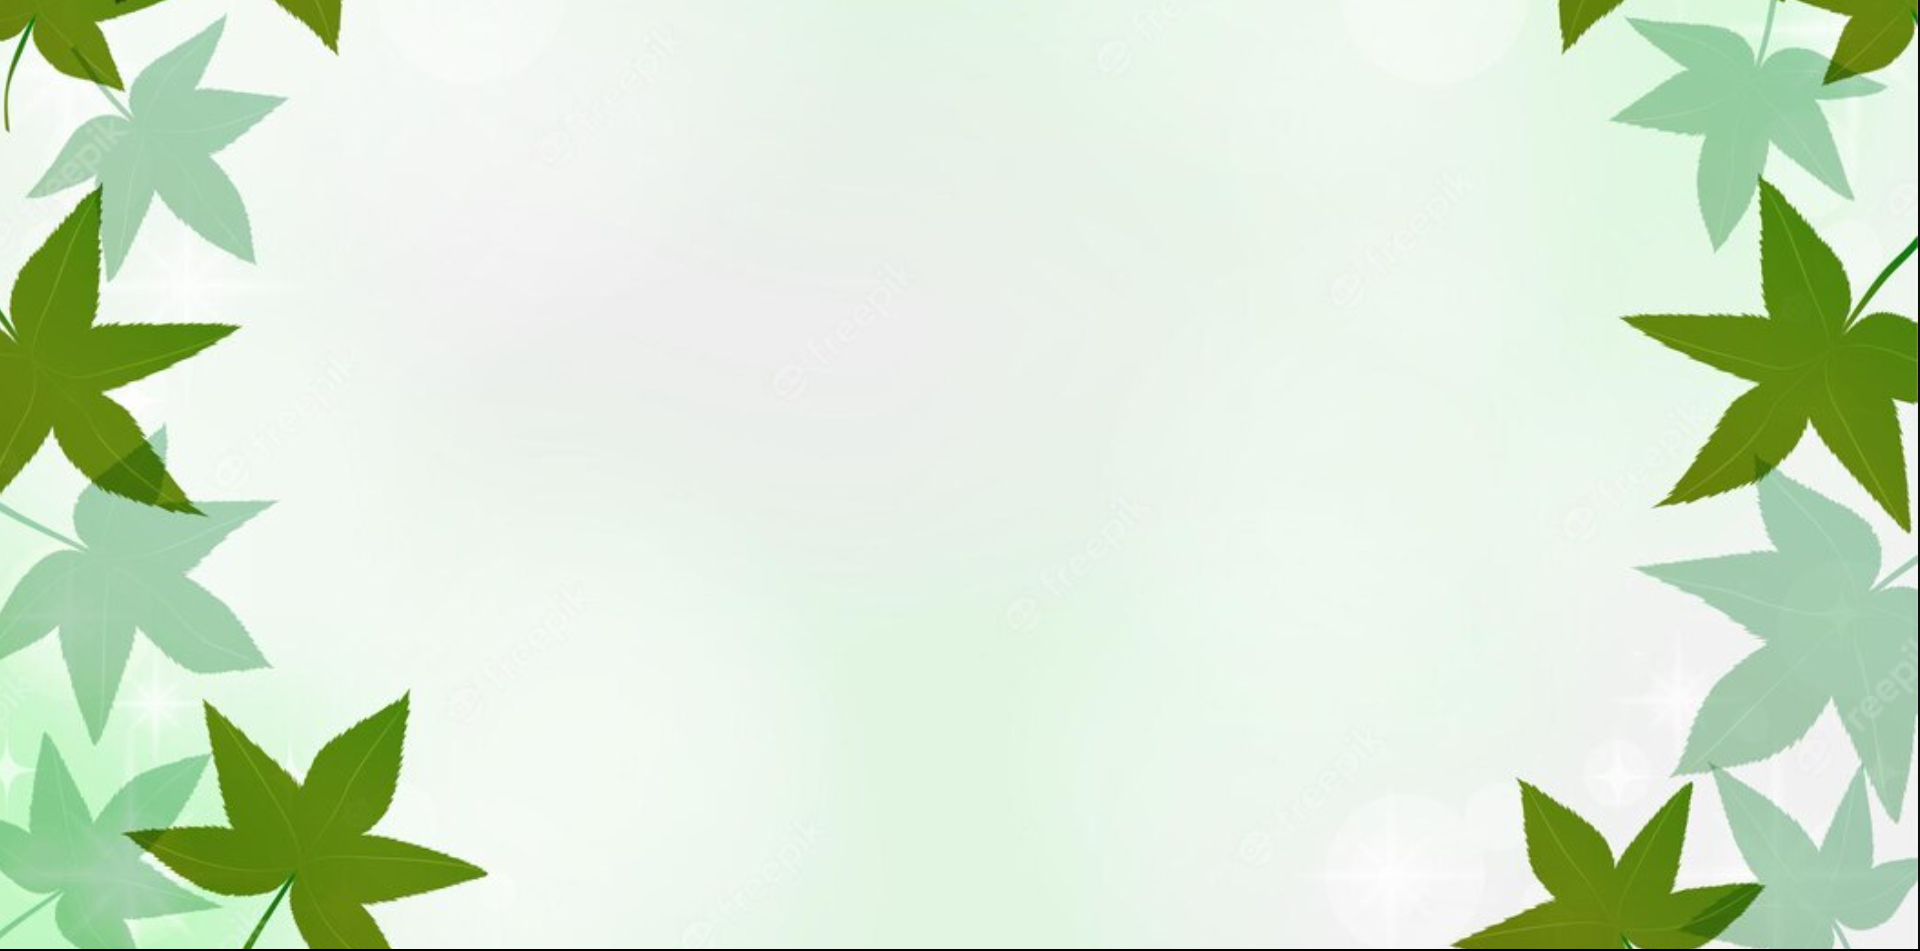
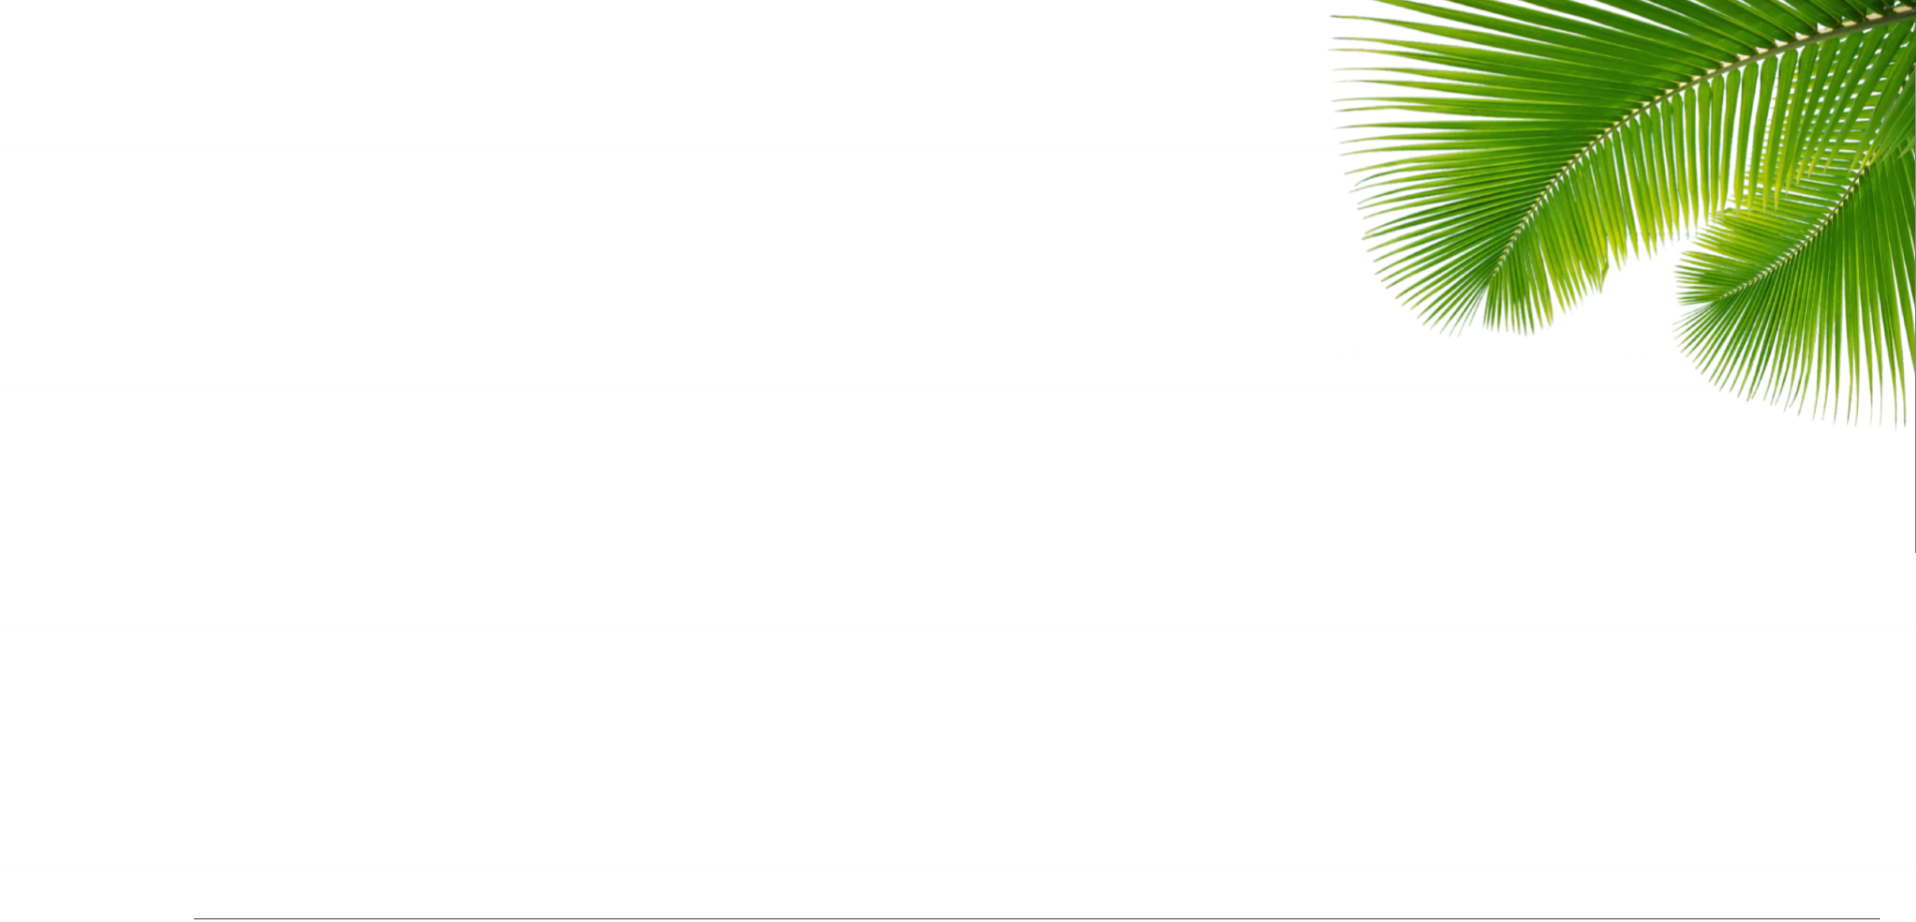
Updated background and added "go back" button to update page.

diff --git a/src/app/update/update.component.scss b/src/app/update/update.component.scss
@@ -32,7 +32,7 @@
     height: 60px;
     display: flex;
     align-items: center;
-    background-color: #5C6647;
+    background-color: #98b83e;
     color: white;
     font-weight: 600;
     }
@@ -41,24 +41,9 @@
     margin: 0 16px;
     }
     
-    .toolbar #twitter-logo {
-    height: 40px;
-    margin: 0 8px;
-    }
-    
-    .toolbar #youtube-logo {
-    height: 40px;
-    margin: 0 16px;
-    }
-    
-    .toolbar #twitter-logo:hover,
-    .toolbar #youtube-logo:hover {
-    opacity: 0.8;
-    }
-    
     .content {
     display: flex;
-    margin: 82px auto 32px;
+    margin: 82px 10px 10px 10px;
     padding: 0 16px;
     max-width: 960px;
     flex-direction: column;
@@ -238,26 +223,103 @@
         z-index: -1;
     } 
 
+    // .post-form {
+    //     display: flex;
+    //     width: 200px;
+    //     height: auto;
+    //     justify-content: center;
+    //     align-items: center;
+    //     flex-wrap: wrap;
+    //     gap: 10px;
+    //     padding-top: 10px;
+
+    //     input {
+    //         font-family: 'Asap', sans-serif;
+    //         font-family: 'Roboto', sans-serif;
+    //     }
+    //     textarea {
+    //         font-family: 'Asap', sans-serif;
+    //         font-family: 'Roboto', sans-serif;
+    //     }
+    //     button {
+    //         font-family: 'Asap', sans-serif;
+    //         font-family: 'Roboto', sans-serif;
+    //     }
+    // }
+
+    
     .post-form {
         display: flex;
-        width: 200px;
-        height: auto;
-        justify-content: center;
+        flex-direction: column;
         align-items: center;
-        flex-wrap: wrap;
-        gap: 10px;
-        padding-top: 10px;
-
-        input {
-            font-family: Georgia, 'Times New Roman', Times, serif;
-        }
+        width: 400px;
+        padding: 20px;
+      
+        input[type="text"],
         textarea {
-            font-family: Georgia, 'Times New Roman', Times, serif;
+          width: 100%; /* Change width to 100% */
+          padding: 12px;
+          margin: 6px 0;
+          border-radius: 4px;
+          border: 1px solid #ccc;
+          box-sizing: border-box;
+          font-size: 18px;
+          height: 50px;
+      
+          &:focus {
+            outline: none;
+            border-color: #219a57;
+          }
         }
+      
+        textarea {
+          height: 150px;
+          font-family: 'Asap', sans-serif;
+          padding: 12px;
+        }
+      
         button {
-            font-family: Georgia, 'Times New Roman', Times, serif;
+          background-color: #7e9968;
+          color: white;
+          border: none;
+          border-radius: 4px;
+          cursor: pointer;
+          font-size: 16px;
+          padding: 20px 20px;
+          margin-top: 20px;
+      
+          &:hover {
+            background-color: #7e9968;
+          }
         }
-    }
+      }
+
+      .button-container {
+        display: flex;
+        justify-content: flex-start;
+        margin-top: 10px;
+        width: 100%; /* Add this line to make the container full-width */
+      }
+      
+      .cancel-button {
+        background-color: #7e9968;
+        color: white;
+        border: none;
+        border-radius: 4px;
+        cursor: pointer;
+        font-size: 16px;
+        padding: 10px 10px;
+        margin-right: 10px; /* Add this line to add space between the button and the edge of the container */
+        
+        &:hover {
+          background-color: #7e9968;
+        }
+      }
+      
+      
+      
+      
+      
 
    
     

diff --git a/src/app/update/update.component.html b/src/app/update/update.component.html
@@ -13,18 +13,30 @@
     </div>
   
     <div class="content" role="main">
+
+    <div class="button-container">
+        <button class="cancel-button" (click)="goback()" >Cancel</button>
+    </div>
+        
   
     <h2>Upload</h2>
     <p>Upload a post here!</p>
 
-    <form #usersForm="ngForm" (ngSubmit)="getUserFormData(usersForm.value)" class="post-form">
-        <input type="text" ngModel name="firstName" placeholder="Enter your first name">
-        <input type="text" ngModel name="lastName" placeholder="Enter your last name">
 
-        <textarea name="message" ngModel placeholder="Enter post message"></textarea>
-        
-        <button>Upload post</button>
-    </form>
+    <div class="Options">
+        <form #usersForm="ngForm" (ngSubmit)="getUserFormData(usersForm.value)" class="post-form">
+            <input type="text" ngModel name="firstName" placeholder="Enter your first name">
+            <input type="text" ngModel name="lastName" placeholder="Enter your last name">
+
+            <textarea name="message" ngModel placeholder="Enter post message"></textarea>
+            
+            <button>Upload post</button> 
+            
+        </form>
+    </div>
+    
+
+    
 
     <div id="leaf-background"class="container"></div> 
   

diff --git a/src/app/home/home.component.scss b/src/app/home/home.component.scss
@@ -32,28 +32,13 @@
     height: 60px;
     display: flex;
     align-items: center;
-    background-color: #5C6647;
+    background-color: #98b83e;
     color: white;
     font-weight: 600;
     }
     
     .toolbar img {
     margin: 0 16px;
-    }
-    
-    .toolbar #twitter-logo {
-    height: 40px;
-    margin: 0 8px;
-    }
-    
-    .toolbar #youtube-logo {
-    height: 40px;
-    margin: 0 16px;
-    }
-    
-    .toolbar #twitter-logo:hover,
-    .toolbar #youtube-logo:hover {
-    opacity: 0.8;
     }
     
     .content {
@@ -228,7 +213,7 @@
       
       .tweet-wrap {
         width:490px;
-        background: #fff;
+        background: #d1eb9d;
         margin: 0 auto;
         margin-top: 50px;
         border-radius:3px;

diff --git a/src/app/update/update.component.ts b/src/app/update/update.component.ts
@@ -1,3 +1,4 @@
+
 import { Component } from '@angular/core';
 import { HttpClient } from '@angular/common/http';
 import { Router } from '@angular/router';
@@ -29,10 +30,13 @@ export class UpdateComponent {
     data.month = this.getCurrentMonth();
     data.day = this.getCurrentDay();
 
-    alert(JSON.stringify(data));
     this.http.post('http://localhost:3000/users', data)
     .subscribe((res: any)=>{
       console.log(this);
     });
+  }
+
+  goback(){
+    this.router.navigate(['home']);
   }
 }
